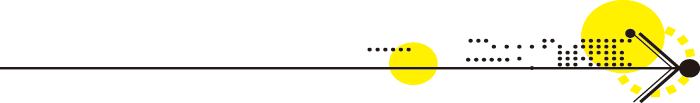
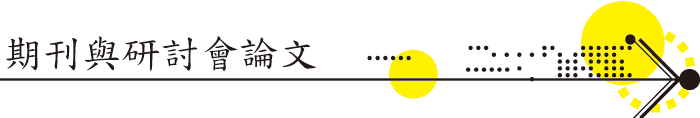
主頁面標題完成

diff --git a/styles/journal.css b/styles/journal.css
@@ -2,7 +2,7 @@
 
 body {
 	font-size:16px;
-	font-family:"DFLiSong W5-WIN-BF*", "微軟正黑體";
+	font-family:"Book Antiqua", "微軟正黑體";
 	font-weight:normal;	
 	width:100%;
 	height:100%;
@@ -31,29 +31,42 @@ body > header {
 	float:right;
 	width:700px;
 	height:120px;
-	margin-top:-20px;
-}
-
-.header_content .title {
-	font-size:38px;
-	font-weight:bold;
-	margin-top:20px;
-	margin-bottom:20px;
+	margin-top:-30px;
 }
 
 .header_content ul {
+	margin-top:90px;
 	margin-left:26px;
 }
 
 .header_content li {
 	list-style:square;
-	font-family:"微軟正黑體";
+	
 	font-size:20px;
 	float:left;
-	margin-right:40px;
+	margin-right:40px;	
 }
 
-body > section {
+.header_content a {
+	color:#000;
+	text-decoration:none;
+}
+
+.header_img {	
+	background-image:url("../image/article_title.png");
+	background-repeat:no-repeat;	
+	margin-left:-42px;
+}
+
+.main_container {
 	margin:0 auto;
-  width:1060px;
+  width:815px;
+}
+
+.main_title {	
+	background:#B5B5B6;
+	width:100%;
+	padding-top:3px;
+	padding-bottom:3px;
+	padding-left:15px;
 }

diff --git a/journal.html b/journal.html
@@ -12,18 +12,33 @@
 <body>  
 	<header>
 		<img src="image/journal.png" alt="期刊/論文" class="icon" />
-		<div class="header_content">
-			<h1 class="title">期刊與研討會論文</h1>
+		<div class="header_content">			
 			<ul>
 				<li>
-					<span>期刊論文</span>
+					<a href="#"><span>期刊論文</span></a>
 				</li>
 				<li>
-					<span>研討會論文</span>
+					<a href="#"><span>研討會論文</span></a>
 				</li>
 			</ul>
 		</div>
 		<!-- /.header_content -->
-  </header>  
+  </header>
+	<section class="main_container">
+		<img class="header_img" src="image/article_title" alt="期刊論文" />
+		<header class="main_title">
+			<h1>已接受及刊登</h1>
+		</header>
+		<section class="articles">
+			<article class="thesis">
+				<header>
+					<h1></h1>
+				</header>
+				<p></p>
+			</article>			
+		</section>
+		<!-- /.articles -->
+	</section>
+	<!-- /.main_container -->
 </body>
 </html>

diff --git a/index.html b/index.html
@@ -21,7 +21,7 @@
 			<nav>
 				<ul>
 					<li><a href="#">關於我</a></li>
-					<li><a href="#">期刊/論文</a></li>
+					<li><a href="journal.html">期刊/論文</a></li>
 					<li><a href="#">技術報告</a></li>
 					<li><a href="#">執行計畫</a></li>
 					<li><a href="#">專利與技轉</a></li>
@@ -45,7 +45,7 @@
 							</a>
             </li>
             <li>
-							<a href="#">
+							<a href="journal.html">
 	              <img src="image/journal.png" alt="期刊/論文" />
   	            <p>期刊/論文<br>journal and conference</p>
 							</a>
